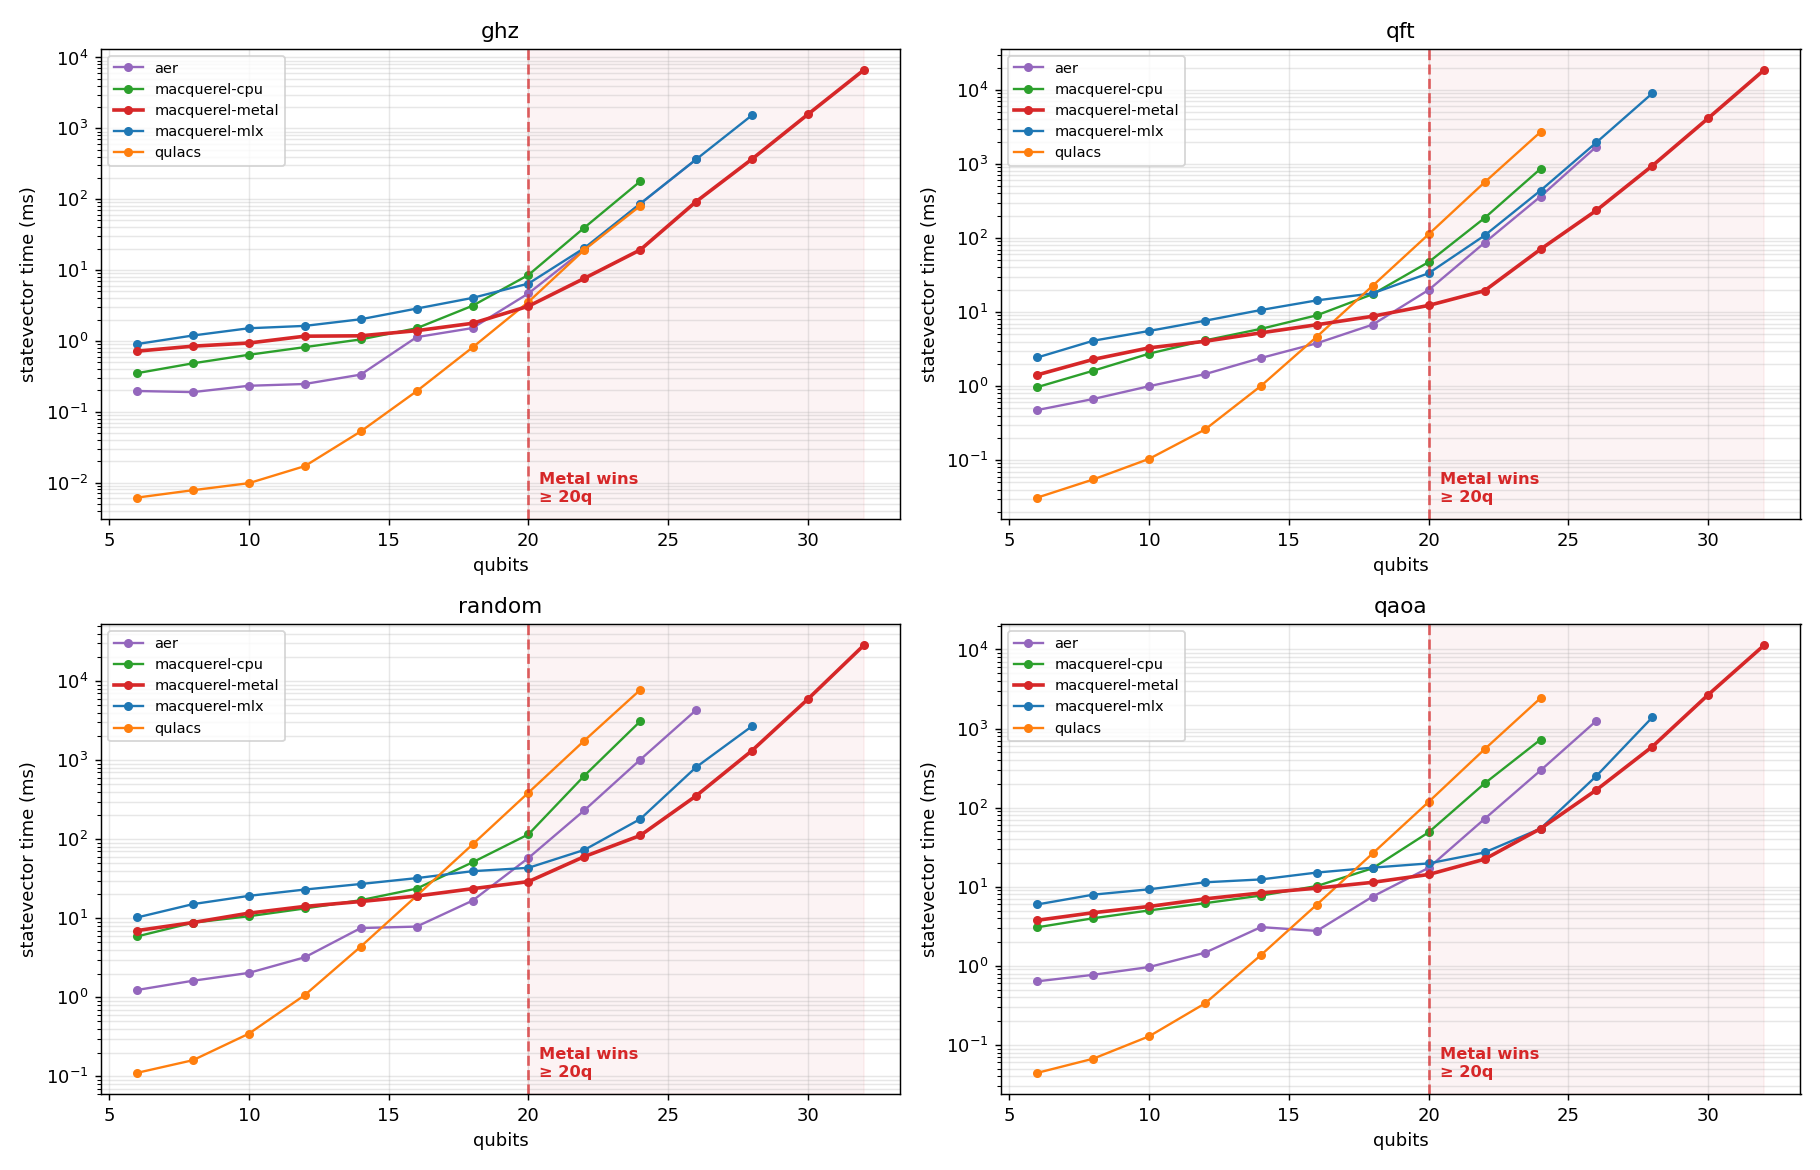
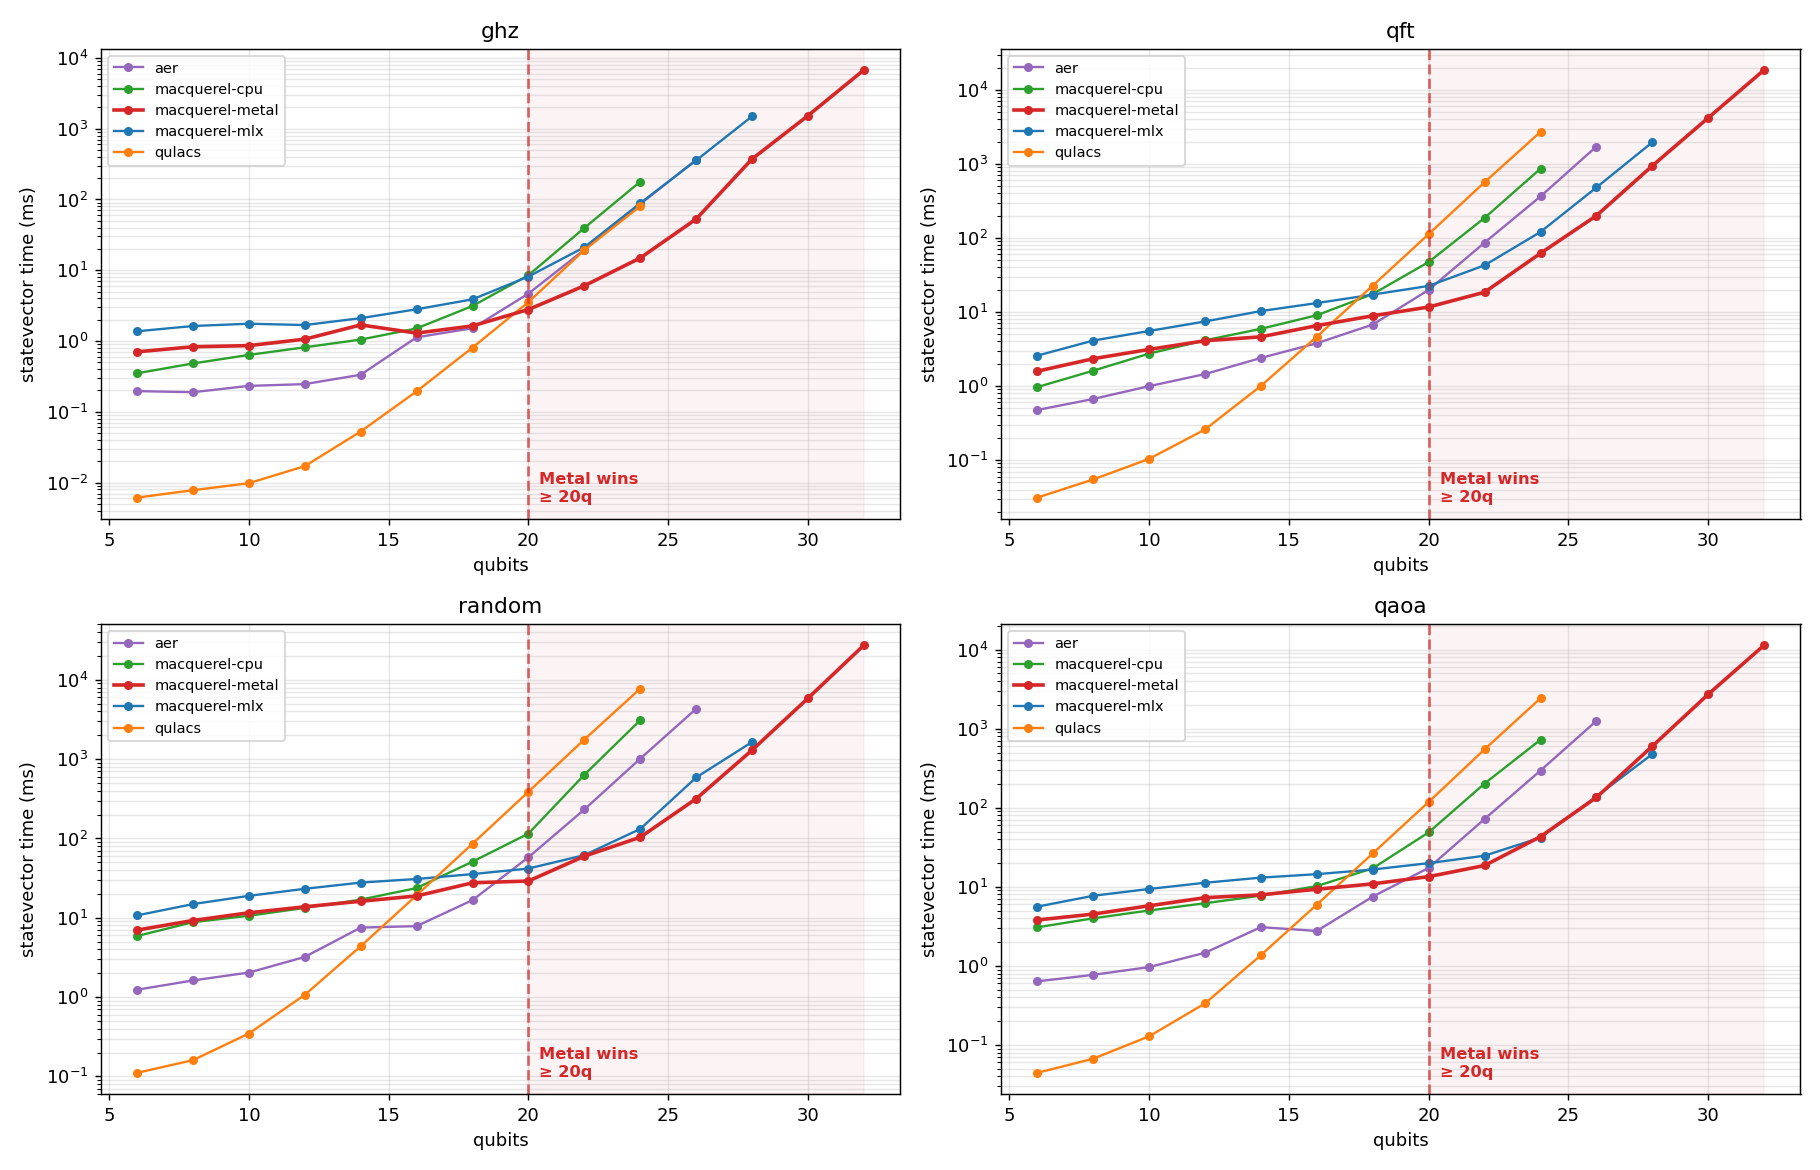
Refresh the framework-comparison data after Steps 31-35
Re-measure macquerel-mlx (6-28q, reps 3) and macquerel-metal (6-32q,
reps 1) at the line's head; Aer/Qulacs/cpu JSONs are unchanged and carry
forward. MLX previously lost to Aer on QFT at 24q+ (438 vs 364 ms); it
now wins every circuit from 20q up (qft@24 121 vs 364 ms).

diff --git a/benchmarks/data/steps/README.md b/benchmarks/data/steps/README.md
@@ -202,3 +202,11 @@ boundary — which picks the faster engine in every measured cell.
 single noisy min-of-3 cells — the reps=9 recheck above puts them at parity or
 better.) Against the full arc, the cumulative geomean vs the *step20* baseline
 now stands at **metal 2.85×, mlx 2.04×, cpu 1.63×** (`plot_steps.py` table).
+
+The refreshed framework comparison (`benchmarks/data/large`, macquerel
+backends re-measured at this line's head; Aer/Qulacs/cpu data unchanged)
+closes the previous line's one remaining external loss: MLX was behind Aer
+on QFT at 24q+ (438 vs 364 ms), and now wins **every circuit from 20q up**
+(qft@24 121 vs 364 ms, qft@26 481 vs 1719 ms). Metal's lead is unchanged or
+better (qft@24 62 ms, random@24 104 ms vs Aer's 364/1014 ms), and MLX even
+takes a cell from Metal at qaoa@28 (478 vs 601 ms).